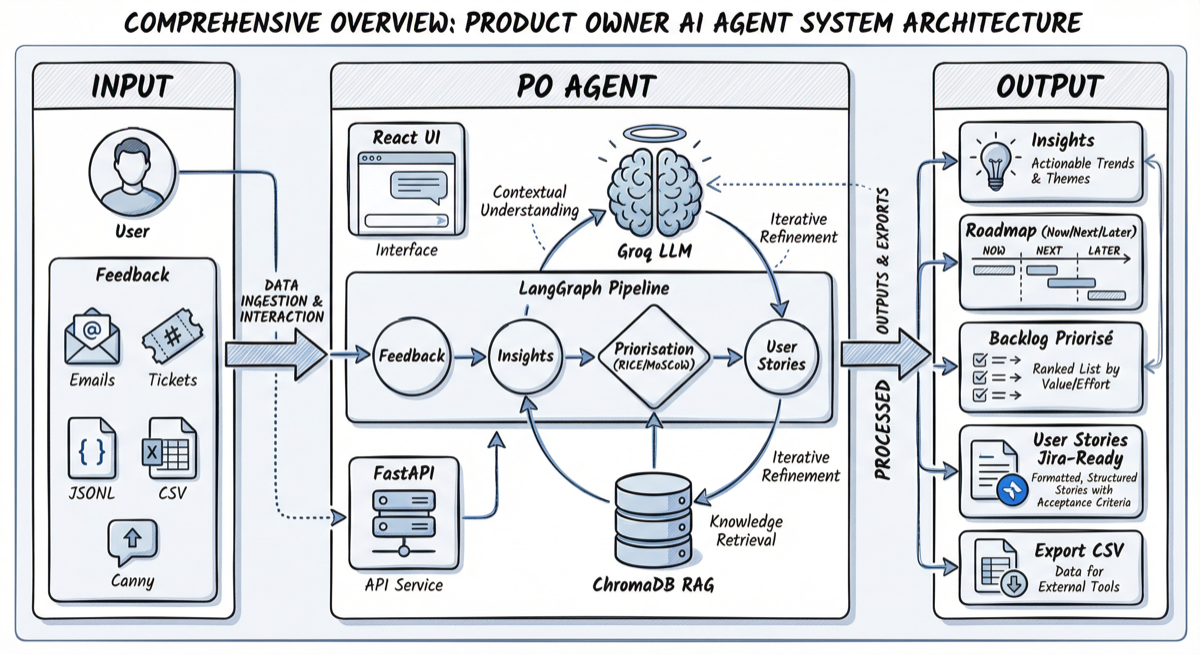
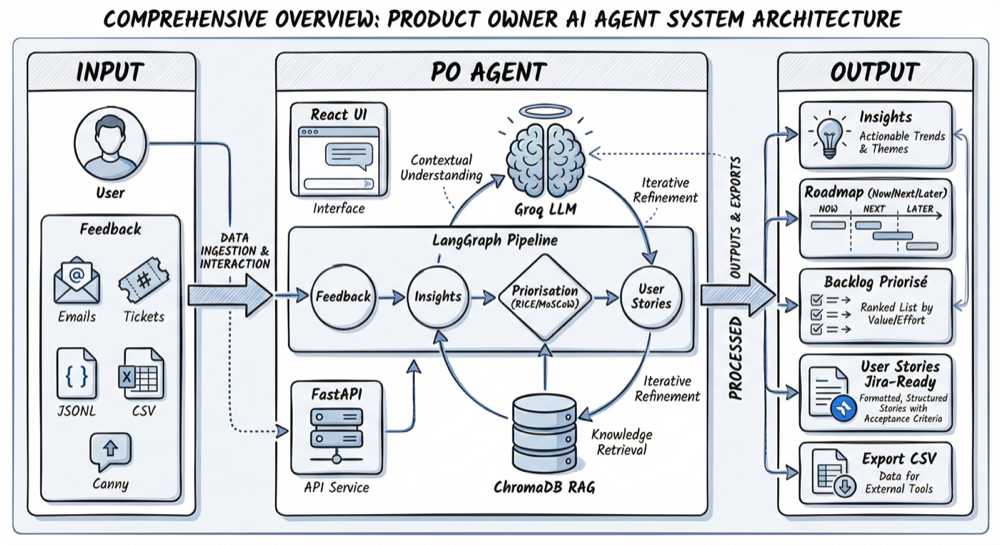
repo: SECURITY.md, requirements.txt, volume Chroma, images optimisées
Made-with: Cursor

diff --git a/SECURITY.md b/SECURITY.md
@@ -1,0 +1,12 @@
+# Politique de sécurité
+
+## Signaler une vulnérabilité
+
+Si vous découvrez une vulnérabilité de sécurité, merci de nous la signaler par email plutôt que d'ouvrir une issue publique.
+
+**Ne commitez pas** de clés API, mots de passe ou secrets dans le dépôt. Utilisez `.env` (voir `.env.example`) pour la configuration locale — ce fichier est ignoré par Git.
+
+## Bonnes pratiques
+
+- Ne jamais exposer `GROQ_API_KEY` ou autres clés dans le code
+- En production : restreindre `CORS_ORIGINS`, désactiver `DEBUG`, utiliser HTTPS

diff --git a/README.md b/README.md
@@ -80,6 +80,7 @@ Voir [.env.example](.env.example) pour la liste complète.
 - **Pre-commit** : `make install-hooks` — Ruff + ESLint avant chaque commit
 - **Changelog** : [CHANGELOG.md](CHANGELOG.md)
 - **Contribution** : [CONTRIBUTING.md](CONTRIBUTING.md)
+- **Sécurité** : [SECURITY.md](SECURITY.md)
 
 ## Agents (pipeline LangGraph)
 
